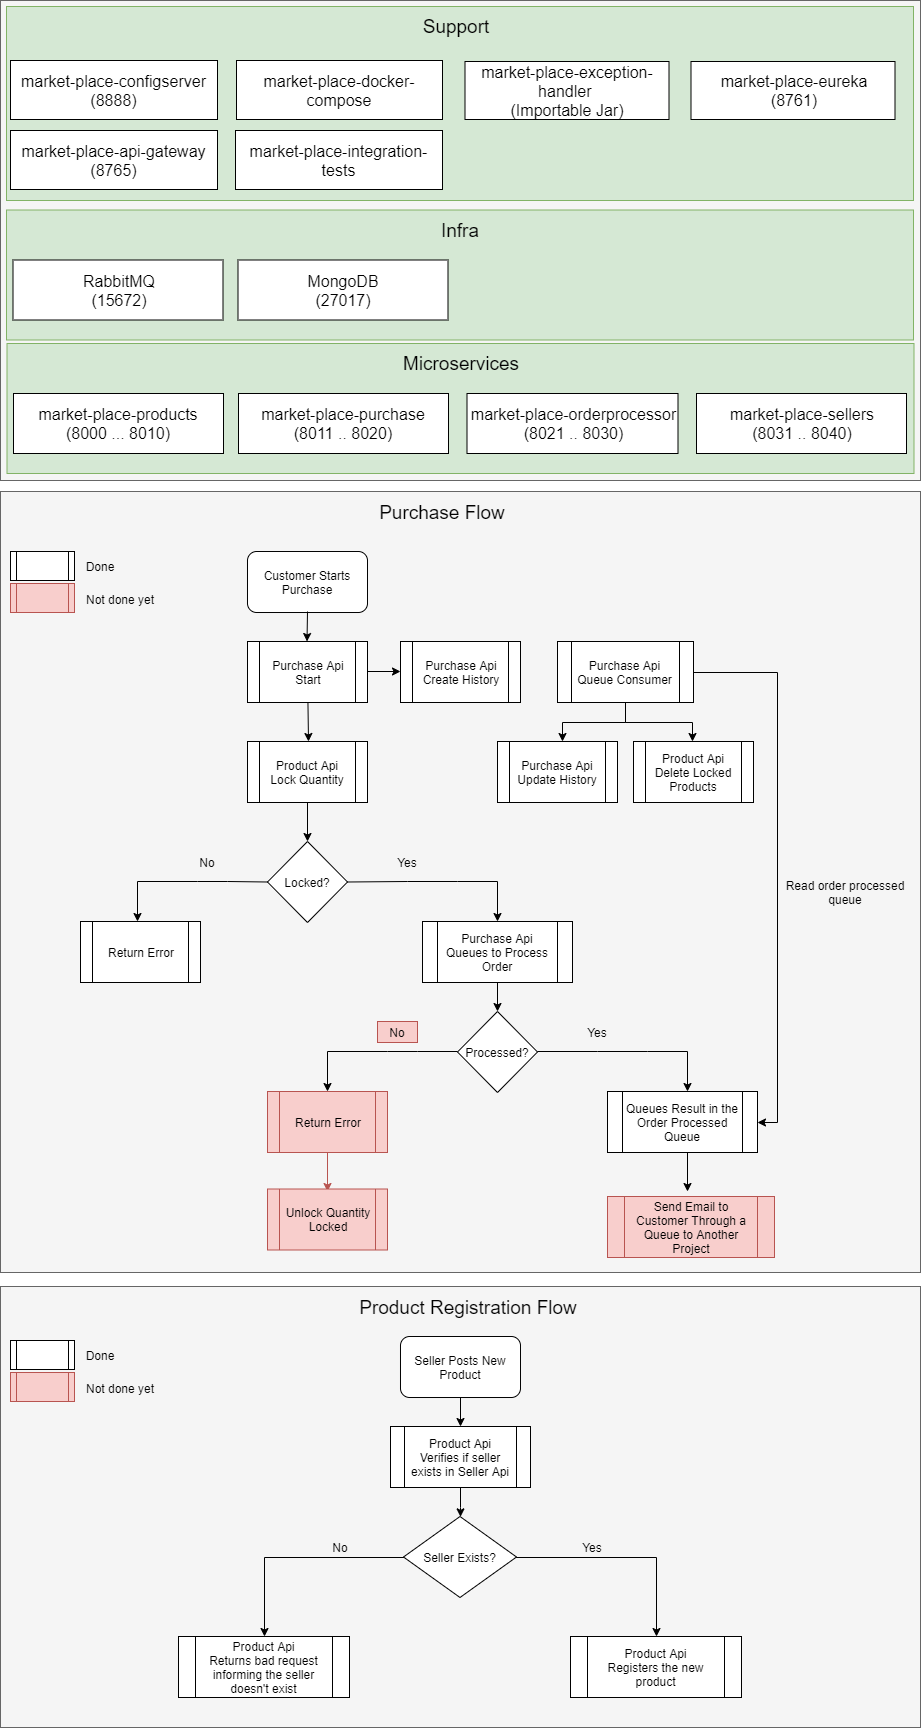
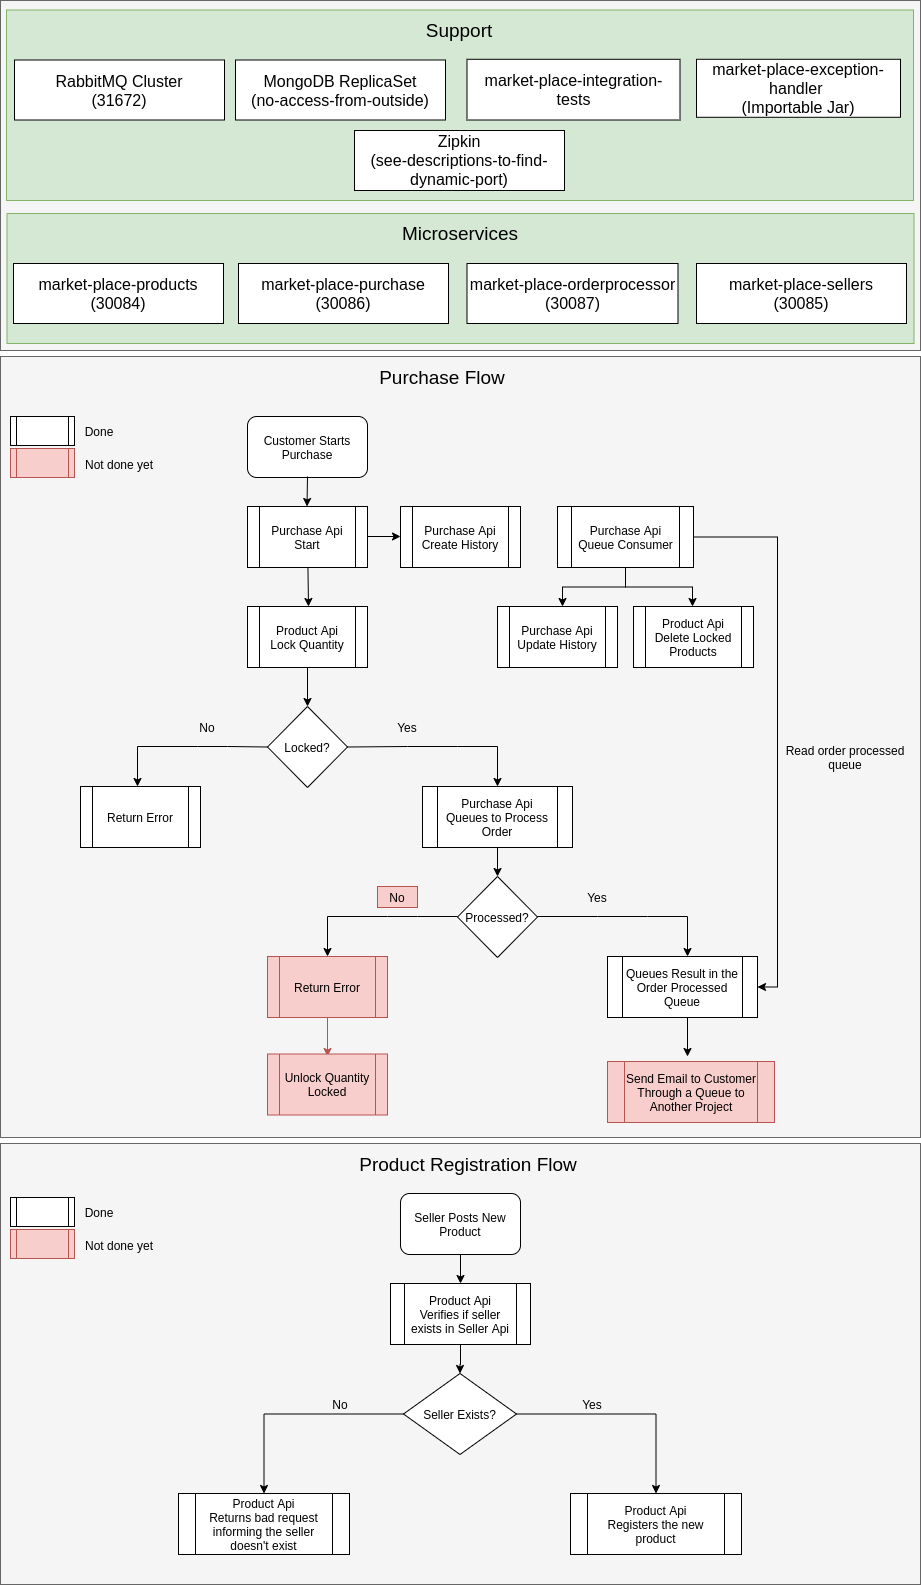
- Updated the readme file - Updated the diagram

diff --git a/README.md b/README.md
@@ -1,19 +1,28 @@
 # market-place-sellers
 This project interfaces all sellers related actions
 
+#### Developer Info
+Name: Vanderson Assis
+
+E-Mail: assis.vanderson@gmail.com
+
+Ps.: I'm currently living in Brazil but willing to relocate to another country. So if you have any opportunity you want to discuss, please reach out!
+
 ### Technologies Used System Wide
 - Java 12
 - MongoDB
-- RabbitMQ
+- Kubernetes (Container Orchestration)
 - Docker (Containerization)
-- Netflix Feign (Declarative rest calls)
-- Netflix Ribbon (Client side load balancing)
-- Netflix Eureka
-- Swagger (API documentation and code generation)
-- Spring Boot
-- Cloud Config Server (Centralized configuration files of the microservices)
-- Cloud Sleuth (Adds trace ids on the rest calls. Helps a lot in finding bugs in microservices architecture)
-- Cloud Zipkin (Uses the Sleuth ids to present us the overall health of our rest calls)
+- Zipkin (Uses the Sleuth ids to present us the overall health of our rest calls)
+- Sleuth (Adds trace ids on the rest calls. Helps a lot in finding bugs in microservices architecture)
+- Kafka
+- Zookeeper (Helps Kafka understand its current state, like brokers added/removed etc...)
+- MySql (just to save trace logs generated by zipkin)
+- RabbitMQ
+- Netflix Ribbon (Load Balancing)
+- Netflix Feign (Declarative rest calls - This will be separated in a different branch, since I'm coding the Kubernetes part now)
+- Swagger (API documentation and API code generation)
+- Spring
 - Actuator (Used to display overall health and monitoring metadata of the system)
 - Sonar (Helps on identifying code smells, test coverage and some more...)
 - Jacoco (Allows to integrate our tests results in the sonar web app)
@@ -25,41 +34,49 @@ This project interfaces all sellers related actions
 - Maven
 
 ### Deploy
-...the dockerfile I have is already outdated based on the current state of the system. 
-As soon as I have created a new version, I'm going to make it available here...
+Please follow the following repository's instructions https://github.com/VandersonAssis/market-place-kubernetes
 
 ### Info
-The Market Place project is composed by five microservices that are:
-market-place-api-gateway, market-place-products, market-place-purchase, market-place-orderprocessor 
-and market-place-sellers.
-
-It's also composed by four other containers that are:
-market-place-config-server, market-place-docker-compose, market-place-exception-handler and 
-market-place-eureka. 
+The Market Place system is composed by four microservices that are:
+market-place-products, market-place-purchase, market-place-orderprocessor 
+and market-place-sellers. 
+The project is internationalized, so whenever the need to add a new language arises, it'll be a lot easy to do it.
  
-In the near future it will have a react frontend spa. Further down are the links to their repositories.
+In the near future it will have a React frontend application. Further down are the links to their repositories.
 
 Also, please find bellow the system's diagram. It will help further on how things 
-happens "behind the curtains".  
+happens "behind the curtains".
 
 ### How to
-Everything starts on the sellers api, where a seller has to be registered through the 
+<b>After</b> you've followed all the steps on the <b>deploy</b> section, then the system should be up and running already so;
+everything starts on the sellers api, where a seller has to be registered through the 
 `/market-place-sellers/marketplace/api/v1/sellers` endpoint. After a seller has been registered then we can 
 register any number of products for that seller through the 
 `/market-place-products/marketplace/api/v1/products` endpoint. After the products has been registered, then 
 we can start selling them right away through the `/market-place-purchase/marketplace/api/v1/purchase/start`.
+When you start a purchase, the inventory will be checked to see if we have the quantity required on the purchase, if so, it will be "locked", 
+meaning even though the purchase is not finished yet, that quantity will be out of inventory until the purchase ends or fails. If it ends successfully, 
+we're good,  if not, then the product quantity will be put in the inventory again.
+
+The purchase process uses the RabbitMQ structure. So if an error happens on the purchase, the system will try again two times, if still, it doesn't work,
+then an error will be returned and the message will be put in a dead letter queue to be reprocessed when the time is right.
 
 Again, for more info on what happens on the backend part when we're calling those endpoints, please refer 
-to the diagram bellow and also all the documentations provided on the openapi.yaml files referenced bellow. 
+to the diagram bellow. Also all the documentations provided on the openapi.yaml files referenced bellow. 
 
 <b>For more info</b> on the available endpoints, expected payloads, 
 responses and so on, please refer to the swagger "openapi.yaml" file
 located in the src/main/resources folder of each project. All you have to do is paste their content into 
 `https://editor.swagger.io/`.
 
-https://github.com/VandersonAssis/market-place-docker-compose
+#### Accessing Support Projects
+- To access the RabitMQ interface run `minikube service rabbitmq-service --url`, copy the address that ends with :31672 and access it with your browser.
+  The user is guest and the password is guest.
+  
+- To access the Zipkin interface run `minikube service zipkin --url`, copy the address and access it with your browser.
 
-https://github.com/VandersonAssis/market-place-api-gateway
+#### Repositories
+https://github.com/VandersonAssis/market-place-kubernetes
 
 https://github.com/VandersonAssis/market-palce-integration-tests
 
@@ -71,17 +88,23 @@ https://github.com/VandersonAssis/market-place-purchase
 
 https://github.com/VandersonAssis/market-place-orderprocessor
 
-https://github.com/VandersonAssis/market-place-configserver
-
 https://github.com/VandersonAssis/market-place-exception-handlers
 
+#### Coming up
+- Monitoring with Prometheus
+- Api Gateway
+- Security configurations
+- Frontend using React
+
 #### Disclaimer
-This and any other piece of code belonging to the Market Place project is 
+This and any other piece of code belonging to the Market Place system is 
 being created with intention to show interviewers my abilities creating 
-a system using microservices architecture.  
+a system using microservices architecture.
 
 Also, please have in mind that 
 I work on this project only on my free time, therefore, improvements can take a little while to be made.
 
-### Diagram
+Last but not least, feel free to do whatever the h311 you want with this code. =P
+
+#### Diagram
 ![alt text](https://raw.githubusercontent.com/VandersonAssis/market-place-support-files/master/diagrams/system-diagram.png)
